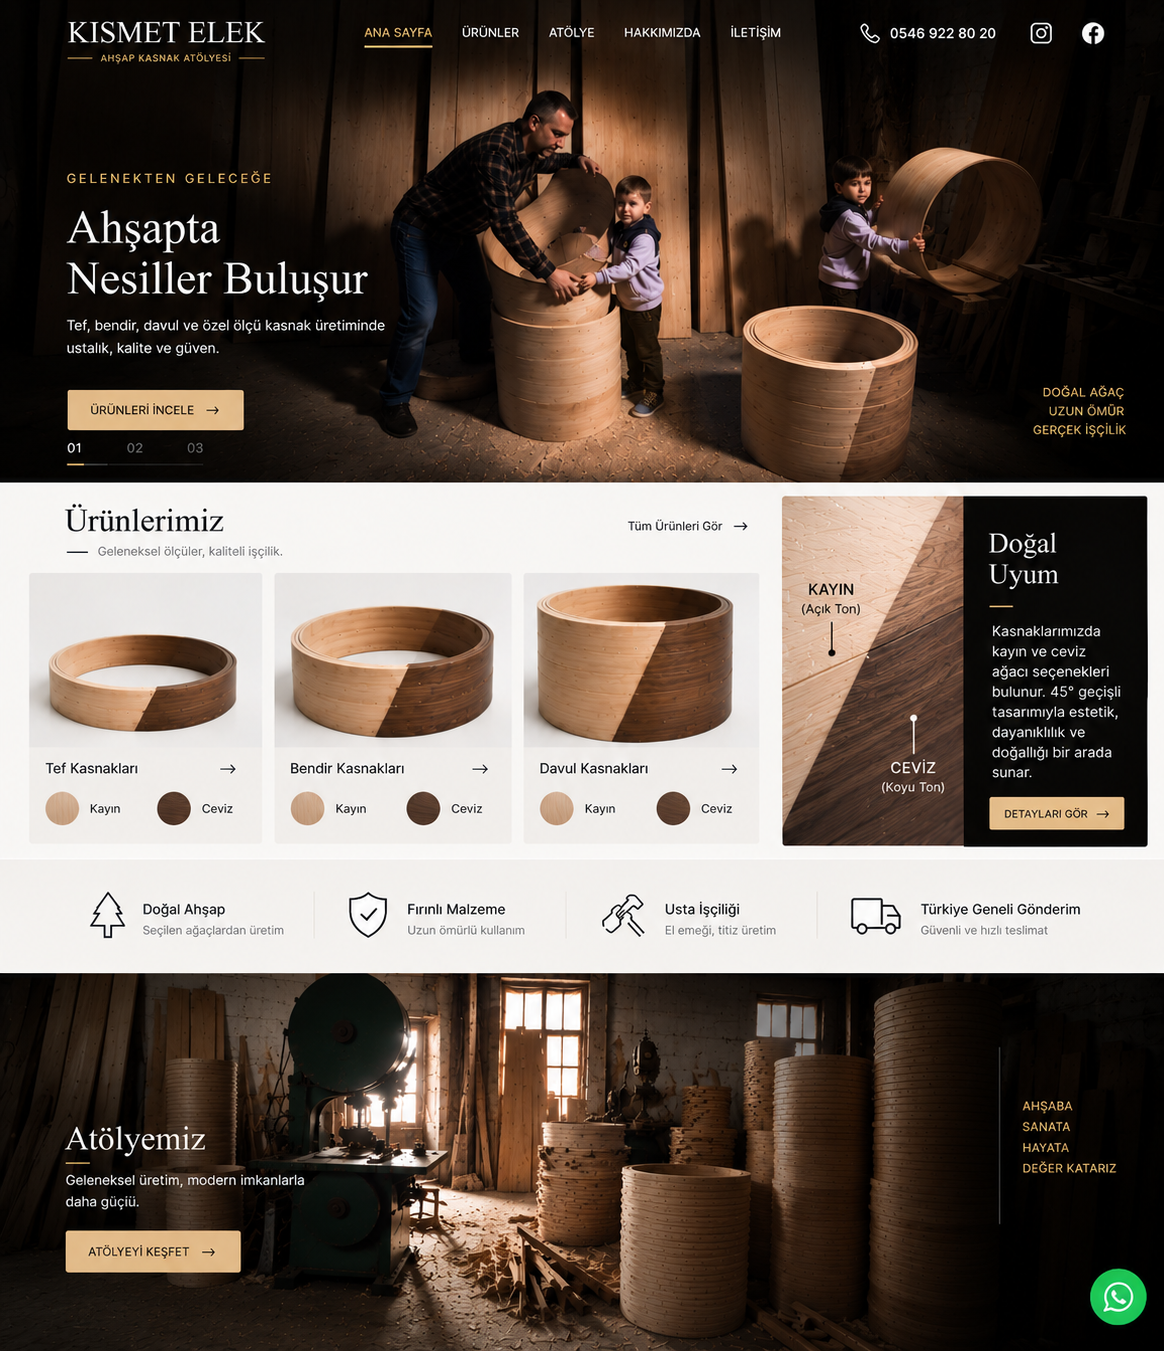
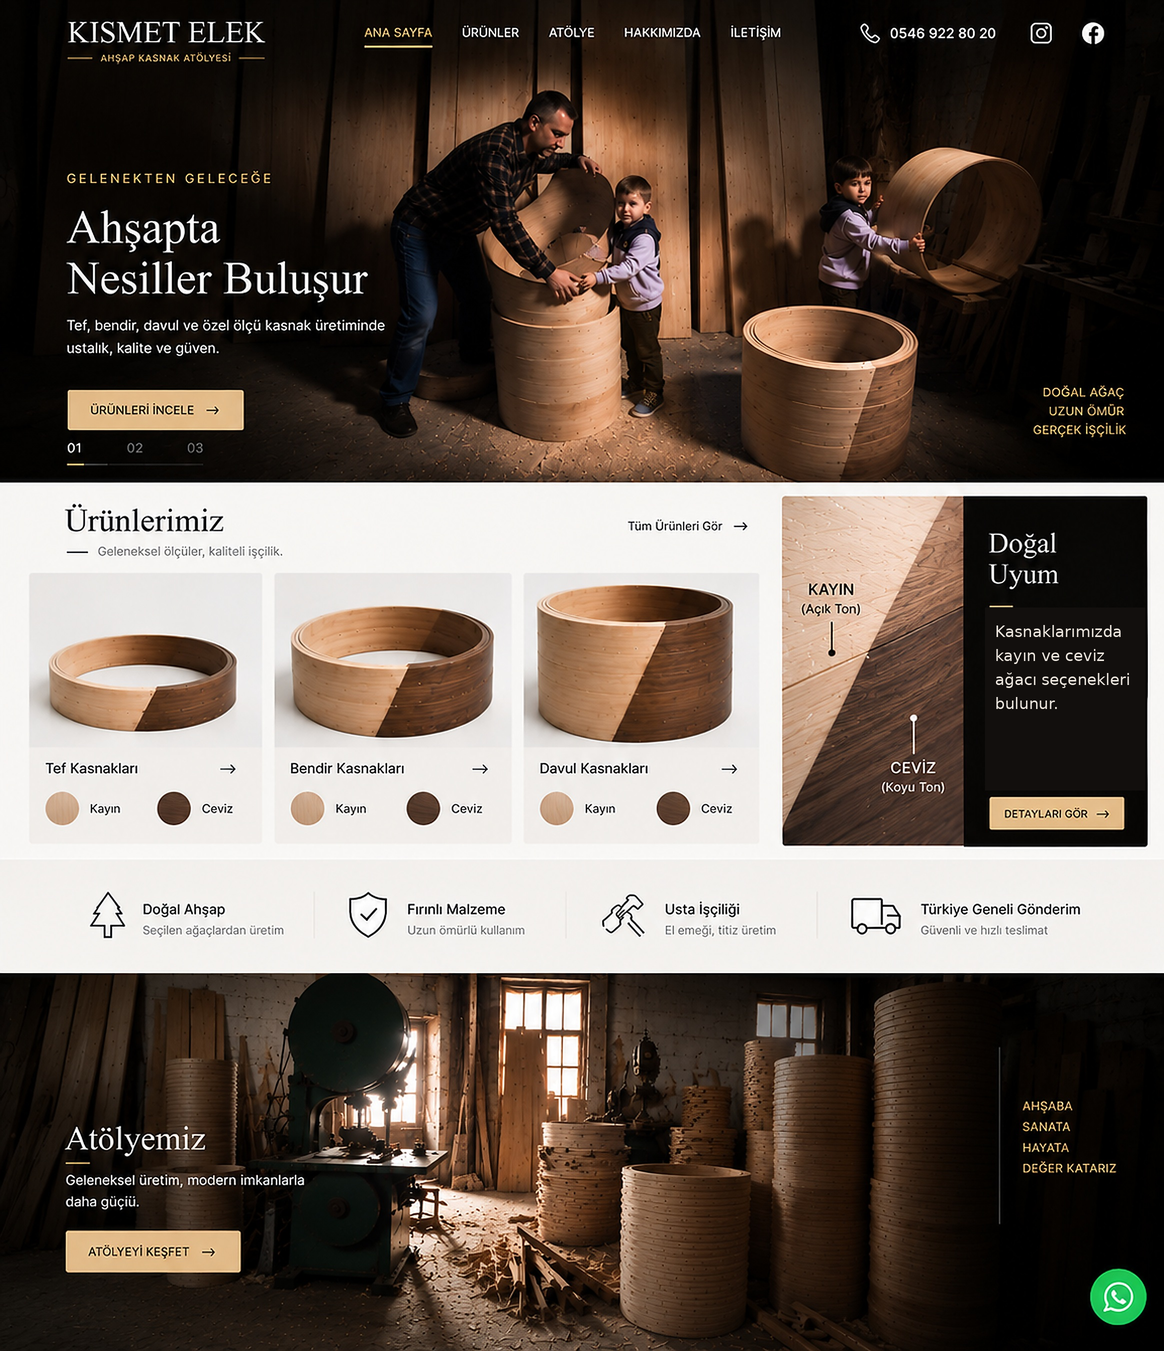
Add files via upload

diff --git a/style.css b/style.css
@@ -1,2 +1,36 @@
 @import url('https://fonts.googleapis.com/css2?family=Cormorant+Garamond:wght@500;600;700&family=Inter:wght@400;500;600&display=swap');
-:root{--dark:#201914;--dark2:#2b2119;--cream:#f5f0e8;--paper:#fffdf9;--gold:#b99355;--gold2:#d4b477;--ink:#27211c;--muted:#776e64;--line:#ded4c7}*{box-sizing:border-box}html{scroll-behavior:smooth}body{margin:0;background:var(--cream);color:var(--ink);font-family:Inter,Arial,sans-serif}.container{width:min(1180px,90%);margin:auto}.topbar{background:#18130f;color:#cbbda9;font-size:10px;letter-spacing:1.3px;padding:10px 0}.row{display:flex;justify-content:space-between;gap:20px}.nav{min-height:82px;display:flex;align-items:center;gap:30px}.site-header,header{background:#241b15;color:#fff;box-shadow:0 8px 25px rgba(0,0,0,.08)}header .nav{position:relative}.brand{display:flex;align-items:center;gap:12px;color:#fff;text-decoration:none;min-width:230px}.brand img{width:48px;height:48px;object-fit:contain;border-radius:50%}.brand .name{font:700 27px/1 'Cormorant Garamond',serif;letter-spacing:1px}.brand .sub{font-size:8px;letter-spacing:2.5px;color:var(--gold2)}nav{display:flex;gap:24px;margin-left:auto}nav a{color:#eee6dc;text-decoration:none;font-size:10px;letter-spacing:1.5px;padding:10px 0;border-bottom:1px solid transparent}nav a:hover,nav a.active{color:var(--gold2);border-color:var(--gold2)}.nav-cta{display:inline-flex;align-items:center;justify-content:center;background:var(--gold);color:#201710!important;text-decoration:none;padding:13px 18px;font-size:10px;font-weight:700;letter-spacing:1px;white-space:nowrap}.menu{display:none;background:none;border:1px solid #766b5e;color:#fff;padding:10px 12px}.pagehero{background:linear-gradient(100deg,rgba(26,19,14,.95),rgba(53,39,28,.86)),url('assets/hero.jpg') center/cover;min-height:390px;display:flex;align-items:center;color:#fff}.pagehero .container{padding:60px 0}.eyebrow{font-size:10px;letter-spacing:3px;color:var(--gold2);font-weight:600}.pagehero h1{font:600 clamp(58px,8vw,100px)/.85 'Cormorant Garamond',serif;margin:18px 0}.pagehero p{max-width:650px;line-height:1.8;color:#e2d9ce;font-size:14px}.section{padding:95px 0}.section.alt{background:#ebe3d8}.heading h2,.split h2,.contact-card h2,.form-card h2{font:600 62px/.9 'Cormorant Garamond',serif;margin:12px 0 22px}.heading p{line-height:1.9;color:var(--muted);max-width:650px}.center{text-align:center}.cards{display:grid;grid-template-columns:repeat(4,1fr);gap:18px;margin-top:45px}.card{background:var(--paper);border:1px solid var(--line);transition:.25s;overflow:hidden}.card:hover{transform:translateY(-5px);box-shadow:0 20px 45px rgba(50,35,20,.12)}.card img{display:block;width:100%;height:260px;object-fit:cover;background:#eee6dc}.card-body{padding:25px}.tag{font-size:9px;letter-spacing:1.5px;color:#9a7a4d}.card h3{font:600 31px/1 'Cormorant Garamond',serif;margin:10px 0 12px}.card p{font-size:12px;line-height:1.7;color:var(--muted);min-height:62px}.card-link{color:#755a35;text-decoration:none;font-size:10px;letter-spacing:1.5px;font-weight:700}.split{display:grid;grid-template-columns:1fr 1fr;gap:70px;align-items:center}.split-media{overflow:hidden;background:#ddd}.split-media img{width:100%;display:block;aspect-ratio:1.05;object-fit:cover;transition:.4s}.split-media:hover img{transform:scale(1.025)}.checks{list-style:none;padding:0;margin:28px 0}.checks li{padding:14px 0;border-bottom:1px solid var(--line);font-size:12px}.checks li:before{content:'✓';color:var(--gold);font-weight:700;margin-right:12px}.gallery{display:grid;grid-template-columns:2fr 1fr 1fr;grid-auto-rows:230px;gap:12px;margin-top:40px}.gallery img{width:100%;height:100%;object-fit:cover}.gallery img:first-child{grid-row:span 2}.steps{display:grid;grid-template-columns:repeat(4,1fr);gap:15px;margin-top:45px}.step{background:var(--paper);padding:30px;border:1px solid var(--line)}.step-num{font:600 38px 'Cormorant Garamond',serif;color:var(--gold)}.step h3{font:600 27px 'Cormorant Garamond',serif;margin:10px 0}.step p{font-size:12px;line-height:1.7;color:var(--muted)}.contact-grid{display:grid;grid-template-columns:.8fr 1.2fr;gap:20px}.contact-card,.form-card{background:var(--paper);padding:45px;border:1px solid var(--line)}.contact-item{display:flex;justify-content:space-between;gap:20px;padding:18px 0;border-bottom:1px solid var(--line);font-size:12px}.contact-item b{color:#806540}.contact-item a{color:inherit}.form-card form{display:grid;gap:12px}.form-card input,.form-card textarea{width:100%;border:1px solid #d5cabb;background:#fff;padding:15px;font:13px Inter}.form-card textarea{min-height:150px;resize:vertical}.form-card button{cursor:pointer;border:0}.btn{display:inline-flex;background:var(--gold);color:#201710;text-decoration:none;padding:16px 22px;font-size:10px;font-weight:700;letter-spacing:1.4px}.material-detail{background:var(--dark);color:#f5eee5}.wood-panel{display:grid;grid-template-columns:1fr 1fr;gap:18px;margin-top:40px}.wood-box{padding:55px;min-height:260px}.wood-box.beech{background:linear-gradient(135deg,#d8bb8b,#a9855a);color:#241a12}.wood-box.walnut{background:linear-gradient(135deg,#65452f,#24150d);color:#fff}.wood-box h3{font:600 45px 'Cormorant Garamond',serif;margin:0 0 10px}.wood-box p{max-width:450px;line-height:1.8;font-size:12px}.notice{padding:18px 20px;background:#efe6d9;border-left:3px solid var(--gold);line-height:1.7;font-size:12px;color:#675c50}footer{background:#1c1612;color:#d8cbbb;padding:55px 0 25px;margin-top:0}.foot{display:grid;grid-template-columns:1.5fr .8fr .8fr 1.2fr;gap:35px}.foot h3{font:600 25px 'Cormorant Garamond',serif;color:#fff;margin:0 0 10px}.foot h3 span{display:block;font:8px Inter;letter-spacing:2px;color:var(--gold2);margin-top:5px}.foot p,.foot a{font-size:10px;line-height:1.9;color:#bdb0a1;text-decoration:none}.copyright{border-top:1px solid #40372f;margin-top:35px;padding-top:18px;font-size:9px;color:#81756a}.floating-wa{position:fixed;right:24px;bottom:24px;width:58px;height:58px;border-radius:50%;display:grid;place-items:center;background:#21b35b;color:#fff;text-decoration:none;font-size:26px;z-index:40;box-shadow:0 10px 25px rgba(0,0,0,.25)}@media(max-width:900px){nav{display:none}.menu{display:block;margin-left:auto}.nav-cta{display:none}.cards{grid-template-columns:repeat(2,1fr)}.split,.contact-grid{grid-template-columns:1fr;gap:35px}.steps{grid-template-columns:1fr 1fr}.foot{grid-template-columns:1fr 1fr}.wood-panel{grid-template-columns:1fr}}@media(max-width:600px){.topbar .row span:last-child{display:none}.container{width:92%}.brand{min-width:0}.brand img{width:40px;height:40px}.brand .name{font-size:23px}.section{padding:65px 0}.pagehero{min-height:330px}.pagehero h1{font-size:55px}.heading h2,.split h2,.contact-card h2,.form-card h2{font-size:48px}.cards{grid-template-columns:1fr}.card img{height:250px}.gallery{grid-template-columns:1fr 1fr;grid-auto-rows:170px}.gallery img:first-child{grid-column:span 2;grid-row:auto}.steps{grid-template-columns:1fr}.foot{grid-template-columns:1fr}.contact-card,.form-card{padding:28px 22px}.floating-wa{right:16px;bottom:16px}}
+:root{--dark:#201914;--dark2:#2b2119;--cream:#f5f0e8;--paper:#fffdf9;--gold:#b99355;--gold2:#d4b477;--ink:#27211c;--muted:#776e64;--line:#ded4c7}
+*{box-sizing:border-box}html{scroll-behavior:smooth}body{margin:0;background:#0d0b09;color:var(--ink);font-family:Inter,Arial,sans-serif}.container{width:min(1180px,92%);margin:auto}.topbar{background:#18130f;color:#cbbda9;font-size:10px;letter-spacing:1.3px;padding:10px 0}.row{display:flex;justify-content:space-between;gap:20px}.nav{min-height:82px;display:flex;align-items:center;gap:30px}.site-header,header{background:#241b15;color:#fff;box-shadow:0 8px 25px rgba(0,0,0,.08)}header .nav{position:relative}.brand{display:flex;align-items:center;gap:12px;color:#fff;text-decoration:none;min-width:230px}.brand img{width:48px;height:48px;object-fit:contain;border-radius:50%}.brand .name{font:700 27px/1 'Cormorant Garamond',serif;letter-spacing:1px}.brand .sub{font-size:8px;letter-spacing:2.5px;color:var(--gold2)}nav{display:flex;gap:24px;margin-left:auto}nav a{color:#eee6dc;text-decoration:none;font-size:10px;letter-spacing:1.5px;padding:10px 0;border-bottom:1px solid transparent}nav a:hover,nav a.active{color:var(--gold2);border-color:var(--gold2)}.nav-cta{display:inline-flex;align-items:center;justify-content:center;background:var(--gold);color:#201710!important;text-decoration:none;padding:13px 18px;font-size:10px;font-weight:700;letter-spacing:1px;white-space:nowrap}.menu{display:none;background:none;border:1px solid #766b5e;color:#fff;padding:10px 12px}
+.pagehero{background:linear-gradient(100deg,rgba(26,19,14,.95),rgba(53,39,28,.86)),url('assets/hero.jpg') center/cover;min-height:390px;display:flex;align-items:center;color:#fff}.pagehero .container{padding:60px 0}.eyebrow{font-size:10px;letter-spacing:3px;color:var(--gold2);font-weight:600}.pagehero h1{font:600 clamp(58px,8vw,100px)/.85 'Cormorant Garamond',serif;margin:18px 0}.pagehero p{max-width:650px;line-height:1.8;color:#e2d9ce;font-size:14px}.section{padding:95px 0}.section.alt{background:#ebe3d8}.heading h2,.split h2,.contact-card h2,.form-card h2{font:600 62px/.9 'Cormorant Garamond',serif;margin:12px 0 22px}.heading p{line-height:1.9;color:var(--muted);max-width:650px}.center{text-align:center}.cards{display:grid;grid-template-columns:repeat(4,1fr);gap:18px;margin-top:45px}.card{background:var(--paper);border:1px solid var(--line);transition:.25s;overflow:hidden}.card:hover{transform:translateY(-5px);box-shadow:0 20px 45px rgba(50,35,20,.12)}.card img{display:block;width:100%;height:260px;object-fit:cover;background:#eee6dc}.card-body{padding:25px}.tag{font-size:9px;letter-spacing:1.5px;color:#9a7a4d}.card h3{font:600 31px/1 'Cormorant Garamond',serif;margin:10px 0 12px}.card p{font-size:12px;line-height:1.7;color:var(--muted);min-height:62px}.card-link{color:#755a35;text-decoration:none;font-size:10px;letter-spacing:1.5px;font-weight:700}.split{display:grid;grid-template-columns:1fr 1fr;gap:70px;align-items:center}.split-media{overflow:hidden;background:#ddd}.split-media img{width:100%;display:block;aspect-ratio:1.05;object-fit:cover;transition:.4s}.split-media:hover img{transform:scale(1.025)}.checks{list-style:none;padding:0;margin:28px 0}.checks li{padding:14px 0;border-bottom:1px solid var(--line);font-size:12px}.checks li:before{content:'✓';color:var(--gold);font-weight:700;margin-right:12px}.gallery{display:grid;grid-template-columns:2fr 1fr 1fr;grid-auto-rows:230px;gap:12px;margin-top:40px}.gallery img{width:100%;height:100%;object-fit:cover}.gallery img:first-child{grid-row:span 2}.steps{display:grid;grid-template-columns:repeat(4,1fr);gap:15px;margin-top:45px}.step{background:var(--paper);padding:30px;border:1px solid var(--line)}.step-num{font:600 38px 'Cormorant Garamond',serif;color:var(--gold)}.step h3{font:600 27px 'Cormorant Garamond',serif;margin:10px 0}.step p{font-size:12px;line-height:1.7;color:var(--muted)}.contact-grid{display:grid;grid-template-columns:.8fr 1.2fr;gap:20px}.contact-card,.form-card{background:var(--paper);padding:45px;border:1px solid var(--line)}.contact-item{display:flex;justify-content:space-between;gap:20px;padding:18px 0;border-bottom:1px solid var(--line);font-size:12px}.contact-item b{color:#806540}.contact-item a{color:inherit}.form-card form{display:grid;gap:12px}.form-card input,.form-card textarea{width:100%;border:1px solid #d5cabb;background:#fff;padding:15px;font:13px Inter}.form-card textarea{min-height:150px;resize:vertical}.form-card button{cursor:pointer;border:0}.btn{display:inline-flex;background:var(--gold);color:#201710;text-decoration:none;padding:16px 22px;font-size:10px;font-weight:700;letter-spacing:1.4px}.material-detail{background:var(--dark);color:#f5eee5}.wood-panel{display:grid;grid-template-columns:1fr 1fr;gap:18px;margin-top:40px}.wood-box{padding:55px;min-height:260px}.wood-box.beech{background:linear-gradient(135deg,#d8bb8b,#a9855a);color:#241a12}.wood-box.walnut{background:linear-gradient(135deg,#65452f,#24150d);color:#fff}.wood-box h3{font:600 45px 'Cormorant Garamond',serif;margin:0 0 10px}.wood-box p{max-width:450px;line-height:1.8;font-size:12px}.notice{padding:18px 20px;background:#efe6d9;border-left:3px solid var(--gold);line-height:1.7;font-size:12px;color:#675c50}footer{background:#1c1612;color:#d8cbbb;padding:55px 0 25px;margin-top:0}.foot{display:grid;grid-template-columns:1.5fr .8fr .8fr 1.2fr;gap:35px}.foot h3{font:600 25px 'Cormorant Garamond',serif;color:#fff;margin:0 0 10px}.foot h3 span{display:block;font:8px Inter;letter-spacing:2px;color:var(--gold2);margin-top:5px}.foot p,.foot a{font-size:10px;line-height:1.9;color:#bdb0a1;text-decoration:none}.copyright{border-top:1px solid #40372f;margin-top:35px;padding-top:18px;font-size:9px;color:#81756a}.floating-wa{position:fixed;right:24px;bottom:24px;width:58px;height:58px;border-radius:50%;display:grid;place-items:center;background:#21b35b;color:#fff;text-decoration:none;font-size:26px;z-index:40;box-shadow:0 10px 25px rgba(0,0,0,.25)}
+@media(max-width:900px){nav{display:none}.menu{display:block;margin-left:auto}.nav-cta{display:none}.cards{grid-template-columns:repeat(2,1fr)}.split,.contact-grid{grid-template-columns:1fr;gap:35px}.steps{grid-template-columns:1fr 1fr}.foot{grid-template-columns:1fr 1fr}.wood-panel{grid-template-columns:1fr}}@media(max-width:600px){.topbar .row span:last-child{display:none}.container{width:92%}.brand{min-width:0}.brand img{width:40px;height:40px}.brand .name{font-size:23px}.section{padding:65px 0}.pagehero{min-height:330px}.pagehero h1{font-size:55px}.heading h2,.split h2,.contact-card h2,.form-card h2{font-size:48px}.cards{grid-template-columns:1fr}.card img{height:250px}.gallery{grid-template-columns:1fr 1fr;grid-auto-rows:170px}.gallery img:first-child{grid-column:span 2;grid-row:auto}.steps{grid-template-columns:1fr}.foot{grid-template-columns:1fr}.contact-card,.form-card{padding:28px 22px}.floating-wa{right:16px;bottom:16px}}
+
+/* ANA SAYFA: görsel gerçekten tam genişlikte kalsın */
+.home-page{margin:0;background:#0d0b09;overflow-x:hidden}.home-page .site{position:relative;width:100vw;max-width:none;margin:0;line-height:0}.home-page .design{display:block;width:100vw;height:auto;min-width:100vw}.home-page .hit{position:absolute;z-index:20;display:block;line-height:normal;border:0;background:transparent}.home-page .hit:hover{background:rgba(255,255,255,.035)}
+.home-page .home{left:38%;top:.7%;width:9%;height:5%}.home-page .products{left:43%;top:.7%;width:9%;height:5%}.home-page .atelier{left:48%;top:.7%;width:8%;height:5%}.home-page .about{left:53%;top:.7%;width:10%;height:5%}.home-page .contact{left:58%;top:.7%;width:8%;height:5%}.home-page .phone{left:70%;top:.5%;width:15%;height:6%}.home-page .instagram{left:84%;top:.5%;width:4.5%;height:6%}.home-page .facebook{left:89%;top:.5%;width:5%;height:6%}
+.home-page .p1{left:1.5%;top:39%;width:21%;height:23%}.home-page .p2{left:23%;top:39%;width:21%;height:23%}.home-page .p3{left:44.5%;top:39%;width:21%;height:23%}.home-page .all{left:55%;top:35.5%;width:12%;height:5%}.home-page .material{left:66%;top:34%;width:34%;height:27%}.home-page .atelierBtn{left:5%;top:88.2%;width:18%;height:5%}.home-page .wa{right:1%;bottom:1%;width:6%;height:6.5%;border-radius:50%}
+
+/* Üç ürün kartındaki mevcut kasnağın ÜZERİNE oturan tek bir kasnak kaplaması.
+   Varsayılan görünüm 45° Kayın/Ceviz; hover'da aynı kasnak tamamen seçilen ağaca döner. */
+.home-page .ring-hover{position:absolute;z-index:15;display:block;opacity:1;pointer-events:none;transform:none;border:0;border-radius:50%;background:conic-gradient(from -45deg,#d7b889 0 45%,#4b2d1e 45% 50%,#4b2d1e 50% 95%,#d7b889 95% 100%);-webkit-mask:radial-gradient(ellipse at center,transparent 0 56%,#000 57% 100%);mask:radial-gradient(ellipse at center,transparent 0 56%,#000 57% 100%);filter:drop-shadow(0 5px 7px rgba(20,10,5,.22));transition:background .22s ease,transform .22s ease}.home-page .ring1{left:5.4%;top:42.5%;width:16.5%;height:9.5%}.home-page .ring2{left:27%;top:42.5%;width:16.5%;height:9.5%}.home-page .ring3{left:48%;top:41.5%;width:16.5%;height:11%}
+.home-page .ring-hover.kayin{background:#c99f70}.home-page .ring-hover.ceviz{background:#4b2d1e}.home-page .ring-hover{display:none}.home-page .site:has(.w1k:hover) .ring1k,.home-page .site:has(.w1c:hover) .ring1c,.home-page .site:has(.w2k:hover) .ring2k,.home-page .site:has(.w2c:hover) .ring2c,.home-page .site:has(.w3k:hover) .ring3k,.home-page .site:has(.w3c:hover) .ring3c{display:block;transform:scale(1.01)}
+.home-page .site:has(.w1k:hover) .ring1k,.home-page .site:has(.w2k:hover) .ring2k,.home-page .site:has(.w3k:hover) .ring3k{background:repeating-linear-gradient(90deg,#dfc397 0 5px,#b88b5d 5px 8px)}.home-page .site:has(.w1c:hover) .ring1c,.home-page .site:has(.w2c:hover) .ring2c,.home-page .site:has(.w3c:hover) .ring3c{background:repeating-linear-gradient(90deg,#704a34 0 5px,#351f14 5px 8px)}
+.home-page .wood-hover{position:absolute;z-index:25;display:block;background:transparent;border:0;cursor:pointer}.home-page .w1k,.home-page .w1c{top:54.6%;height:5%;width:5.2%}.home-page .w1k{left:4.1%}.home-page .w1c{left:14.2%}.home-page .w2k,.home-page .w2c{top:54.6%;height:5%;width:5.2%}.home-page .w2k{left:25.8%}.home-page .w2c{left:36%}.home-page .w3k,.home-page .w3c{top:54.6%;height:5%;width:5.2%}.home-page .w3k{left:47.2%}.home-page .w3c{left:57.5%}
+.home-page .wood-hover:hover{background:rgba(185,147,85,.08);border-radius:50%}.home-page .wood-tip{display:none}
+/* Sağdaki Doğal Uyum paneli: 45° varsayılan; Kayın/Ceviz bölgelerine gelince paneldeki ahşap görünümü değişir. */
+.home-page .material-preview{position:absolute;z-index:14;left:66.2%;top:34.4%;width:33.2%;height:26.8%;pointer-events:none;opacity:0;background:linear-gradient(135deg,#d8bb8b 0 50%,#4b2d1e 50%);transition:.2s}.home-page .material-zone{position:absolute;z-index:26;background:transparent;border:0;cursor:pointer}.home-page .material-kayin{left:67.2%;top:38.5%;width:12%;height:8%}.home-page .material-ceviz{left:68%;top:49%;width:13%;height:9%}.home-page .site:has(.material-kayin:hover) .material-preview{opacity:.82;background:repeating-linear-gradient(90deg,#dfc397 0 5px,#b88b5d 5px 8px)}.home-page .site:has(.material-ceviz:hover) .material-preview{opacity:.82;background:repeating-linear-gradient(90deg,#704a34 0 5px,#351f14 5px 8px)}
+@media(max-width:700px){.home-page .site,.home-page .design{width:100vw;min-width:100vw}.home-page .material-zone{display:none}}
+
+/* Kısmet Elek - Kayın / Ceviz hover state */
+.wood-choice[data-wood],
+.wood-option[data-wood],
+[data-wood="kayın"], [data-wood="kayın"] *,
+[data-wood="ceviz"], [data-wood="ceviz"] * { cursor: pointer; }
+
+.kasnak-visual { transition: filter .25s ease, background-image .25s ease, transform .25s ease; }
+
+.wood-hover-active .kasnak-visual.kayin {
+  background-image: var(--kayın-image) !important;
+}
+.wood-hover-active .kasnak-visual.ceviz {
+  background-image: var(--ceviz-image) !important;
+}

diff --git a/script.js b/script.js
@@ -3,3 +3,23 @@ function closeProduct(e){const m=document.getElementById('modal');if(!m)return;i
 document.addEventListener('keydown',e=>{if(e.key==='Escape')closeProduct()});
 const q=document.getElementById('quoteForm');if(q){q.addEventListener('submit',e=>{e.preventDefault();const msg=`Merhaba, Kısmet Elek için teklif almak istiyorum.\n\nAd Soyad: ${document.getElementById('qname').value}\nTelefon: ${document.getElementById('qphone').value}\nÜrün: ${document.getElementById('qproduct').value}\nÖlçü/Adet: ${document.getElementById('qsize').value}\nNot: ${document.getElementById('qnote').value}`;window.open('https://wa.me/905469228020?text='+encodeURIComponent(msg),'_blank')})}
 const menu=document.querySelector('.menu');if(menu){menu.addEventListener('click',()=>{let n=document.querySelector('nav');if(n){n.style.display=n.style.display==='flex'?'none':'flex';n.style.flexDirection='column';n.style.position='absolute';n.style.top='82px';n.style.left='0';n.style.right='0';n.style.padding='18px 5%';n.style.background='#241b15';n.style.zIndex='20'}})}
+
+/* KISMET_WOOD_HOVER_FINAL */
+document.addEventListener('DOMContentLoaded', () => {
+  const choices = document.querySelectorAll('[data-wood-choice], [data-wood="kayın"], [data-wood="ceviz"]');
+  choices.forEach(choice => {
+    const wood = (choice.dataset.woodChoice || choice.dataset.wood || '').toLowerCase();
+    if (!['kayın','ceviz','kayın ağacı','ceviz ağacı'].includes(wood)) return;
+    const target = choice.closest('[data-kasnak], .product-card, .wood-showcase, .kasnak-card') ||
+                   document.querySelector('[data-kasnak], .kasnak-visual');
+    if (!target) return;
+    choice.addEventListener('mouseenter', () => {
+      target.classList.add('wood-hover-active');
+      target.dataset.activeWood = wood.startsWith('kayın') ? 'kayın' : 'ceviz';
+    });
+    choice.addEventListener('mouseleave', () => {
+      target.classList.remove('wood-hover-active');
+      target.removeAttribute('data-active-wood');
+    });
+  });
+});

diff --git a/index.html b/index.html
@@ -18,7 +18,7 @@
 @media(max-width:700px){.site{width:100%}.wood-tip{font-size:8px}}
 </style>
 </head>
-<body>
+<body class="home-page">
 <main class="site">
   <img class="design" src="assets/ana-sayfa-tasarim-hd.jpg" alt="Kısmet Elek Ahşap Kasnak Atölyesi">
   <a class="hit home" href="index.html" aria-label="Ana Sayfa"></a>
@@ -39,12 +39,10 @@
   <span class="ring-hover kayin ring1 ring1k"></span><span class="ring-hover ceviz ring1 ring1c"></span>
   <span class="ring-hover kayin ring2 ring2k"></span><span class="ring-hover ceviz ring2 ring2c"></span>
   <span class="ring-hover kayin ring3 ring3k"></span><span class="ring-hover ceviz ring3 ring3c"></span>
-  <span class="wood-hover w1k" aria-label="Tef kayın üzerinde göster"></span><span class="wood-hover w1c" aria-label="Tef ceviz üzerinde göster"></span>
-  <span class="wood-hover w2k" aria-label="Bendir kayın üzerinde göster"></span><span class="wood-hover w2c" aria-label="Bendir ceviz üzerinde göster"></span>
-  <span class="wood-hover w3k" aria-label="Davul kayın üzerinde göster"></span><span class="wood-hover w3c" aria-label="Davul ceviz üzerinde göster"></span>
-  <span class="wood-tip tip1k">KAYIN · AÇIK TON</span><span class="wood-tip tip1c">CEVİZ · KOYU TON</span>
-  <span class="wood-tip tip2k">KAYIN · AÇIK TON</span><span class="wood-tip tip2c">CEVİZ · KOYU TON</span>
-  <span class="wood-tip tip3k">KAYIN · AÇIK TON</span><span class="wood-tip tip3c">CEVİZ · KOYU TON</span>
+  <span class="wood-hover w1k" aria-label="Tef kayın"></span><span class="wood-hover w1c" aria-label="Tef ceviz"></span>
+  <span class="wood-hover w2k" aria-label="Bendir kayın"></span><span class="wood-hover w2c" aria-label="Bendir ceviz"></span>
+  <span class="wood-hover w3k" aria-label="Davul kayın"></span><span class="wood-hover w3c" aria-label="Davul ceviz"></span>
+  
 </main>
 </body>
 </html>
